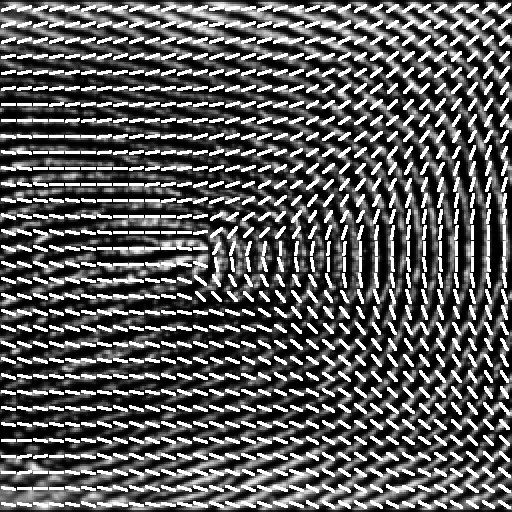
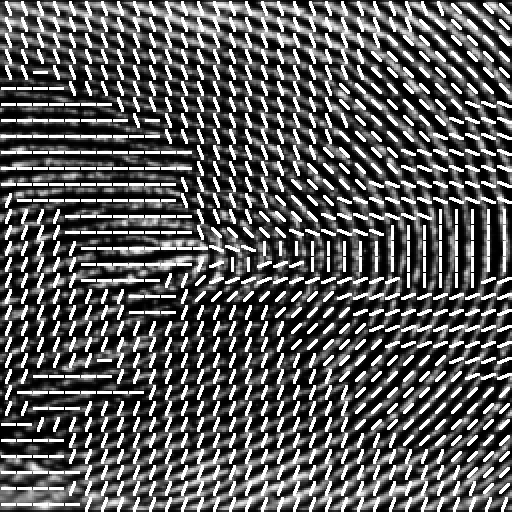
fix: refine fingerprint ridge direction display

Changed region(s): [[0.0, 0.0, 1.0, 1.0]]

diff --git a/scripts/prepare_reality_fingerprint.py b/scripts/prepare_reality_fingerprint.py
@@ -160,9 +160,21 @@ def smooth_tensor_field(tensor_x, tensor_y, active):
     return smooth_x, smooth_y, smooth_active
 
 
+def angle_to_bin(theta_deg):
+    theta_deg %= 180.0
+    return int(math.floor((theta_deg + 11.25) / 22.5)) & 7
+
+
+def bin_to_angle(direction):
+    return direction * 22.5
+
+
 def tensor_to_angle(tx, ty):
     normal = 0.5 * math.degrees(math.atan2(ty, tx))
-    return (normal + 90.0) % 180.0
+    direction = angle_to_bin(normal + 90.0)
+    if direction not in (0, 4):
+        direction = (direction + 4) & 7
+    return bin_to_angle(direction)
 
 
 def draw_line(rgb, width, height, cx, cy, angle_deg, length=12, color=(255, 255, 255)):
